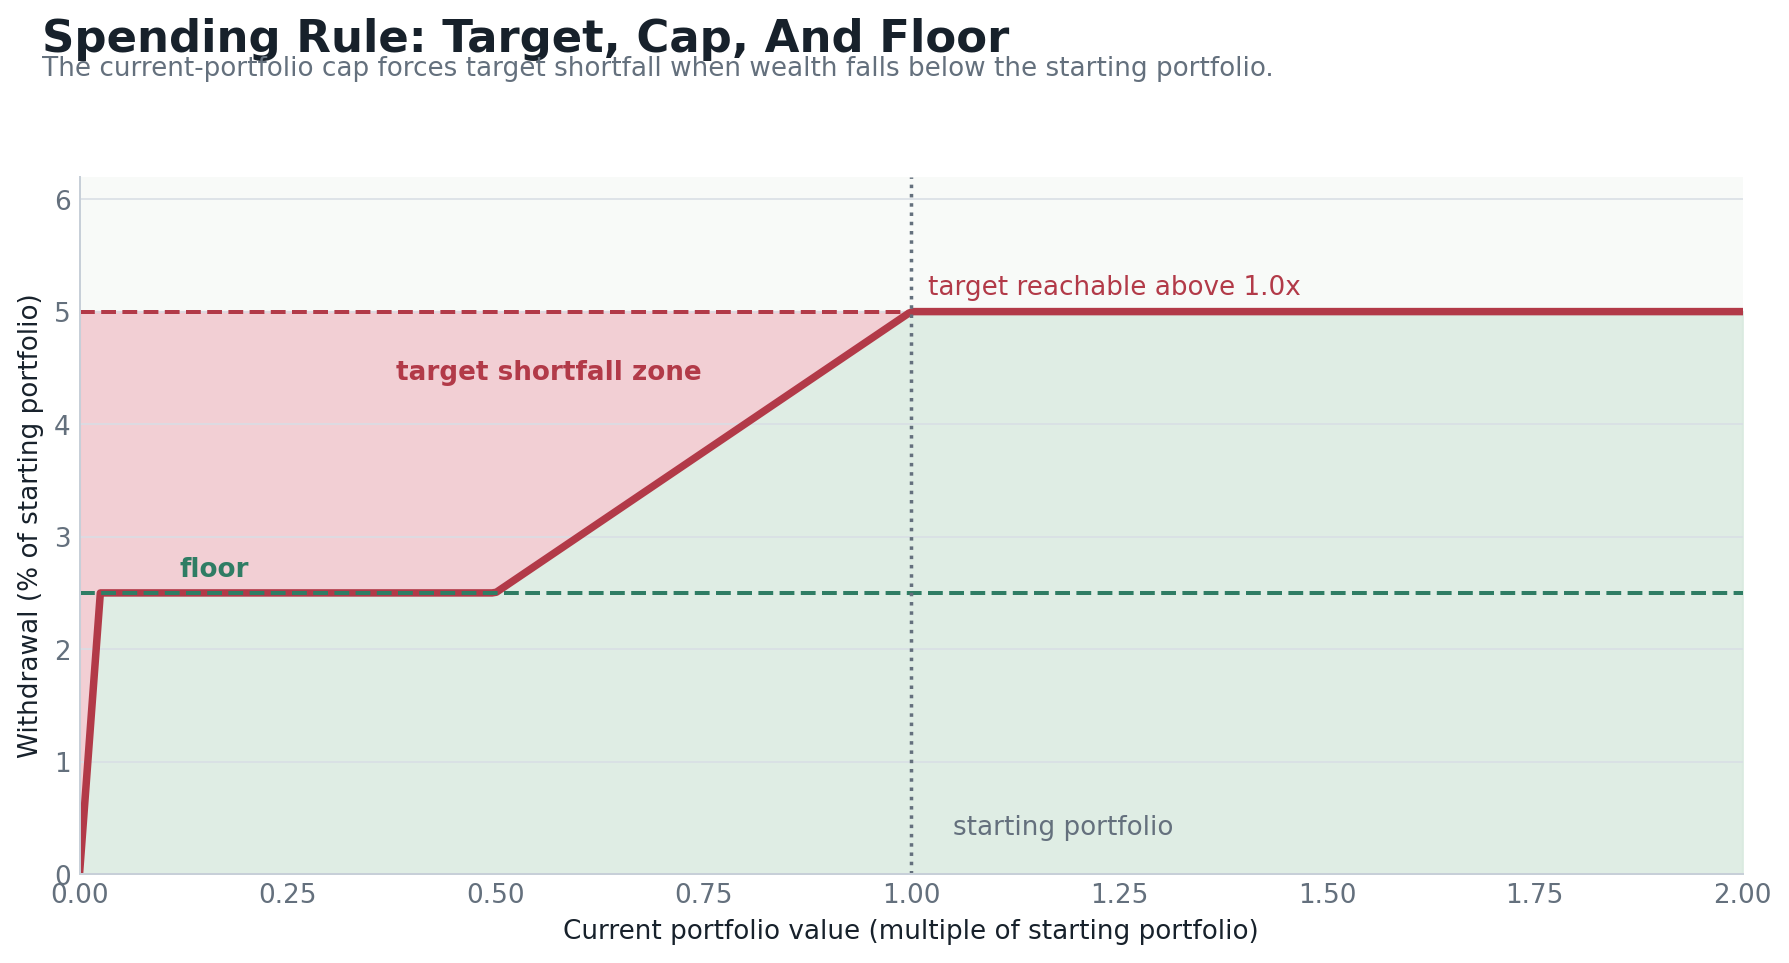
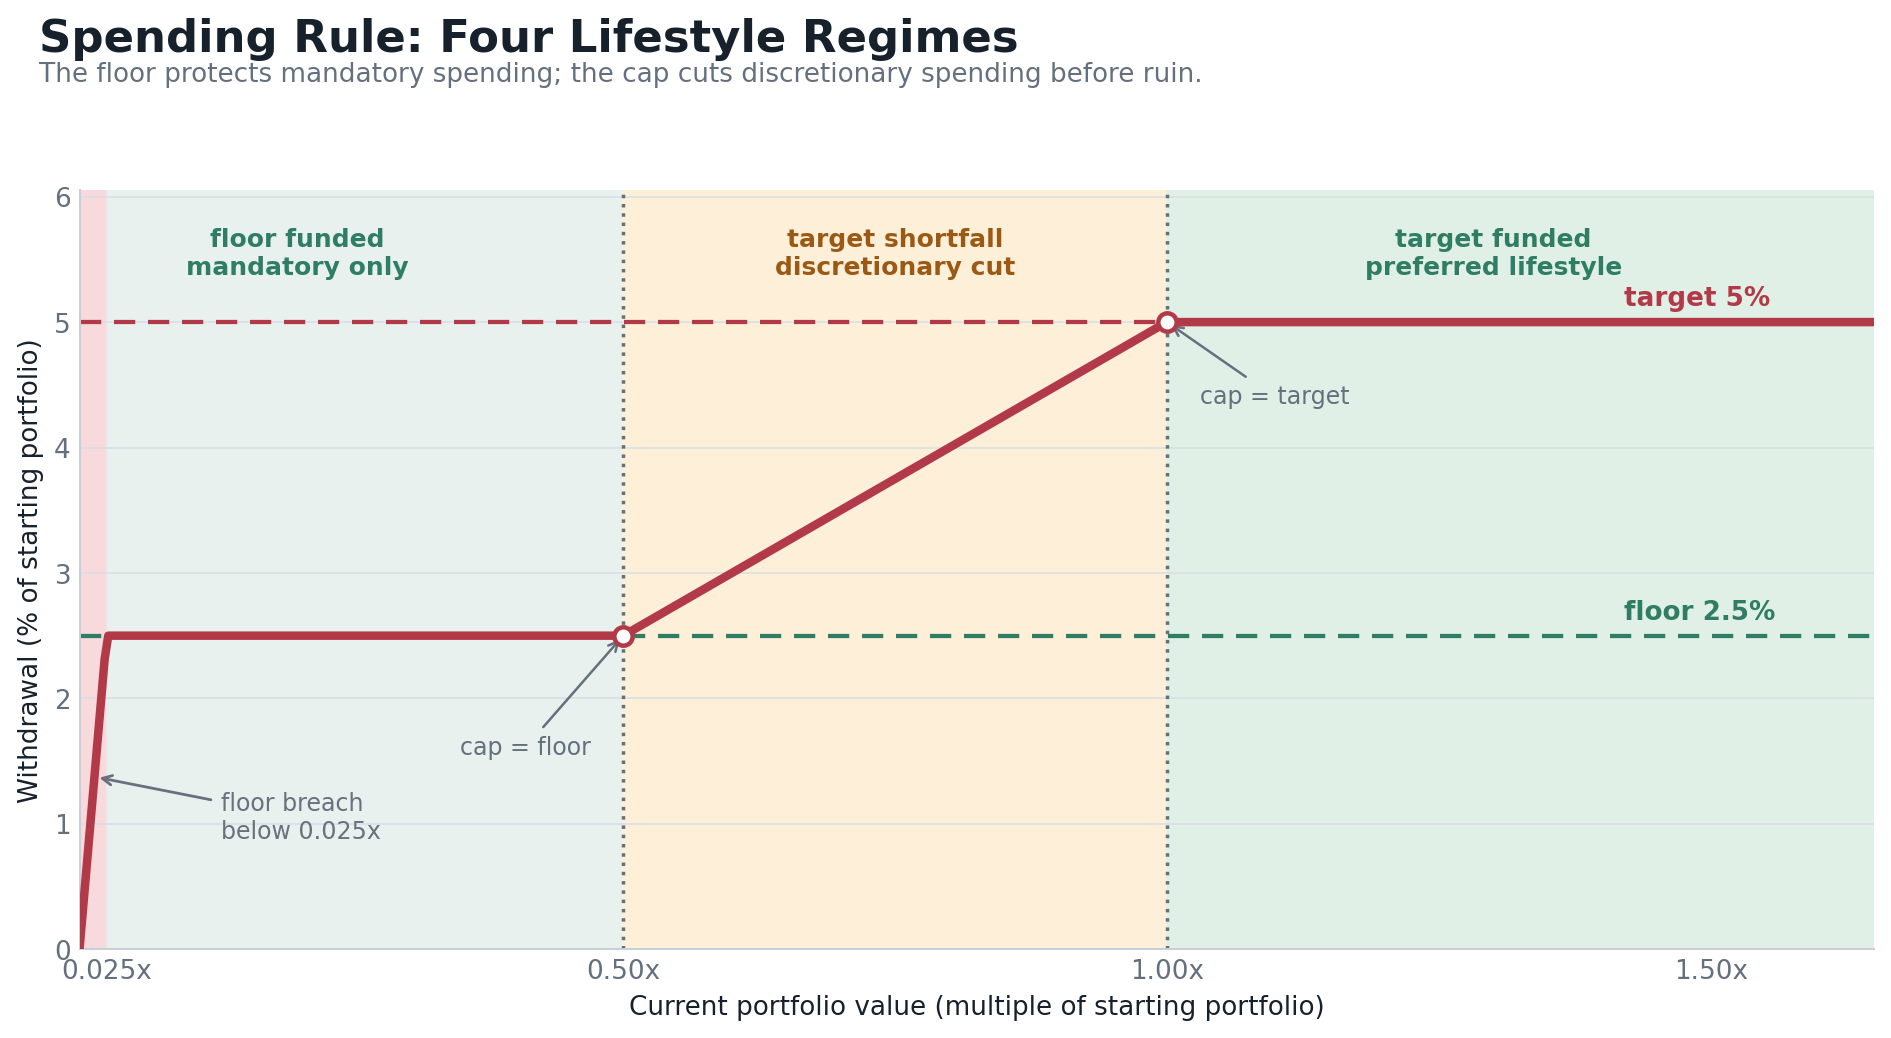
Redesign spending rule chart

diff --git a/docs/index.html b/docs/index.html
@@ -492,7 +492,7 @@
           <p>The classic 4% 60/40 plan looks safe if the only question is ruin. But it has more target-shortfall years and less than half the median ending wealth of the 4% stock-only plan. It also delivers a lower target lifestyle than the 5% stock-only baseline while ending with much less wealth.</p>
           <div>
             <span class="tag"><span class="dot red"></span>Red: target shortfall</span>
-            <span class="tag"><span class="dot green"></span>Green: floor breach</span>
+            <span class="tag"><span class="dot green"></span>Green: floor-related outcomes</span>
             <span class="tag"><span class="dot gray"></span>Gray: ruin</span>
             <span class="tag"><span class="dot blue"></span>Blue: ending wealth</span>
           </div>
@@ -536,8 +536,8 @@ withdrawal = min(current portfolio, max(floor, min(target, cap)))</pre>
 
           <p>The floor can override the cap. If the remaining portfolio cannot fund the floor, the withdrawal is limited to the remaining portfolio, and that year is counted as a floor breach.</p>
           <figure class="figure">
-            <img src="assets/bond_report_spending_cap.png" alt="Spending rule chart showing target shortfall zone and floor.">
-            <figcaption>The spending rule cuts target spending before ruin. That is the engine behind the report’s results.</figcaption>
+            <img src="assets/bond_report_spending_cap.png" alt="Spending rule chart showing floor breach, floor funded, target shortfall, and target funded regimes.">
+            <figcaption>The spending rule creates four lived regimes: floor breach, mandatory spending only, discretionary cuts, and full target lifestyle.</figcaption>
           </figure>
 
           <h3>Model</h3>

diff --git a/notes/generate_report_assets.py b/notes/generate_report_assets.py
@@ -99,43 +99,125 @@ def plot_spending_rule(results: dict) -> None:
     settings = results["settings"]
     target_pct = settings["target_spending_pct_initial"]
     floor_pct = settings["floor_spending_pct_initial"]
+    floor_threshold = floor_pct
+    floor_to_cap_threshold = floor_pct / target_pct
+    target_threshold = 1.0
 
-    x = np.linspace(0, 2.0, 400)
+    x = np.linspace(0, 1.65, 500)
     cap_spend = x * target_pct
     desired = np.minimum(np.maximum(np.minimum(target_pct, cap_spend), floor_pct), x)
 
-    fig, ax = plt.subplots(figsize=(10.5, 5.7))
+    fig, ax = plt.subplots(figsize=(11.2, 6.2))
     title_block(
         fig,
-        "Spending Rule: Target, Cap, And Floor",
-        "The current-portfolio cap forces target shortfall when wealth falls below the starting portfolio.",
+        "Spending Rule: Four Lifestyle Regimes",
+        "The floor protects mandatory spending; the cap cuts discretionary spending before ruin.",
     )
 
-    ax.fill_between(x, 0, desired * 100, color="#d9eadf", alpha=0.8)
-    ax.fill_between(
+    regimes = [
+        (0.0, floor_threshold, "#f8d7da", "floor breach", "assets cannot fund minimum"),
+        (floor_threshold, floor_to_cap_threshold, "#e7f1ee", "floor funded", "mandatory spending only"),
+        (floor_to_cap_threshold, target_threshold, "#fff0d6", "target shortfall", "discretionary lifestyle cut"),
+        (target_threshold, 1.65, "#dff0e6", "target funded", "full preferred lifestyle"),
+    ]
+    for start, end, color, _, _ in regimes:
+        ax.axvspan(start, end, color=color, alpha=0.92, zorder=0)
+
+    ax.plot(
         x,
         desired * 100,
-        target_pct * 100,
-        where=x < 1.0,
-        color="#f2c8ce",
-        alpha=0.85,
+        color=COLORS["target"],
+        linewidth=3.4,
+        solid_capstyle="round",
+        zorder=4,
     )
-    ax.plot(x, desired * 100, color=COLORS["target"], linewidth=3.0)
-    ax.axhline(target_pct * 100, color=COLORS["target"], linestyle="--", linewidth=1.6)
-    ax.axhline(floor_pct * 100, color=COLORS["floor"], linestyle="--", linewidth=1.6)
-    ax.axvline(1.0, color=COLORS["muted"], linestyle=":", linewidth=1.4)
 
-    ax.text(1.02, target_pct * 100 + 0.15, "target reachable above 1.0x", color=COLORS["target"])
-    ax.text(0.12, floor_pct * 100 + 0.15, "floor", color=COLORS["floor"], fontweight="bold")
-    ax.text(0.38, 4.4, "target shortfall zone", color=COLORS["target"], fontweight="bold")
-    ax.text(1.05, 0.35, "starting portfolio", color=COLORS["muted"])
+    ax.axhline(target_pct * 100, color=COLORS["target"], linestyle=(0, (5, 3)), linewidth=1.7)
+    ax.axhline(floor_pct * 100, color=COLORS["floor"], linestyle=(0, (5, 3)), linewidth=1.7)
+    ax.axvline(floor_to_cap_threshold, color=COLORS["muted"], linestyle=":", linewidth=1.4)
+    ax.axvline(target_threshold, color=COLORS["muted"], linestyle=":", linewidth=1.4)
+
+    ax.scatter(
+        [floor_to_cap_threshold, target_threshold],
+        [floor_pct * 100, target_pct * 100],
+        s=54,
+        color=COLORS["paper"],
+        edgecolor=COLORS["target"],
+        linewidth=1.8,
+        zorder=5,
+    )
+
+    label_y = 5.55
+    ax.text(
+        0.20,
+        label_y,
+        "floor funded\nmandatory only",
+        ha="center",
+        va="center",
+        color=COLORS["floor"],
+        fontweight="bold",
+        fontsize=10,
+    )
+    ax.text(
+        0.75,
+        label_y,
+        "target shortfall\ndiscretionary cut",
+        ha="center",
+        va="center",
+        color="#9a5a15",
+        fontweight="bold",
+        fontsize=10,
+    )
+    ax.text(
+        1.30,
+        label_y,
+        "target funded\npreferred lifestyle",
+        ha="center",
+        va="center",
+        color=COLORS["floor"],
+        fontweight="bold",
+        fontsize=10,
+    )
+
+    ax.annotate(
+        "floor breach\nbelow 0.025x",
+        xy=(floor_threshold * 0.55, floor_threshold * 55),
+        xytext=(0.13, 1.05),
+        arrowprops=dict(arrowstyle="->", color=COLORS["ruin"], linewidth=1.1),
+        color=COLORS["ruin"],
+        fontsize=9.5,
+        ha="left",
+        va="center",
+    )
+    ax.annotate(
+        "cap = floor",
+        xy=(floor_to_cap_threshold, floor_pct * 100),
+        xytext=(0.47, 1.55),
+        arrowprops=dict(arrowstyle="->", color=COLORS["muted"], linewidth=1.0),
+        color=COLORS["muted"],
+        fontsize=9.5,
+        ha="right",
+    )
+    ax.annotate(
+        "cap = target",
+        xy=(target_threshold, target_pct * 100),
+        xytext=(1.03, 4.35),
+        arrowprops=dict(arrowstyle="->", color=COLORS["muted"], linewidth=1.0),
+        color=COLORS["muted"],
+        fontsize=9.5,
+        ha="left",
+    )
+    ax.text(1.42, target_pct * 100 + 0.13, "target 5%", color=COLORS["target"], fontweight="bold")
+    ax.text(1.42, floor_pct * 100 + 0.13, "floor 2.5%", color=COLORS["floor"], fontweight="bold")
 
     ax.set_xlabel("Current portfolio value (multiple of starting portfolio)")
     ax.set_ylabel("Withdrawal (% of starting portfolio)")
-    ax.set_xlim(0, 2.0)
-    ax.set_ylim(0, 6.2)
+    ax.set_xlim(0, 1.65)
+    ax.set_ylim(0, 6.05)
+    ax.set_xticks([floor_threshold, 0.5, 1.0, 1.5])
+    ax.set_xticklabels(["0.025x", "0.50x", "1.00x", "1.50x"])
     style_axis(ax)
-    fig.subplots_adjust(top=0.82, left=0.08, right=0.96, bottom=0.14)
+    fig.subplots_adjust(top=0.82, left=0.08, right=0.97, bottom=0.14)
     save(fig, "bond_report_spending_cap.png")
 
 

diff --git a/notes/stock_bond_allocation_report_2026-05-13.md b/notes/stock_bond_allocation_report_2026-05-13.md
@@ -91,10 +91,12 @@ The main table metric called **target shortfall** is the percentage of all simul
 
 ![Spending rule: 5% target and 2.5% floor](/Users/sergeyzelvenskiy/retirement_planning/notes/assets/bond_report_spending_cap.png)
 
+The spending-rule chart separates four lived regimes: floor breach, mandatory spending only, discretionary cuts, and full target lifestyle.
+
 The report figures use the same visual language throughout:
 
-- **Red** means target shortfall.
-- **Green** means floor breach.
+- **Red** marks target spending or target shortfall.
+- **Green** marks floor-related outcomes.
 - **Gray** means ruin.
 - **Blue** means ending wealth.
 - Shaded regions mark the part of the chart where the strategy becomes either durable, aggressive, or fragile.
